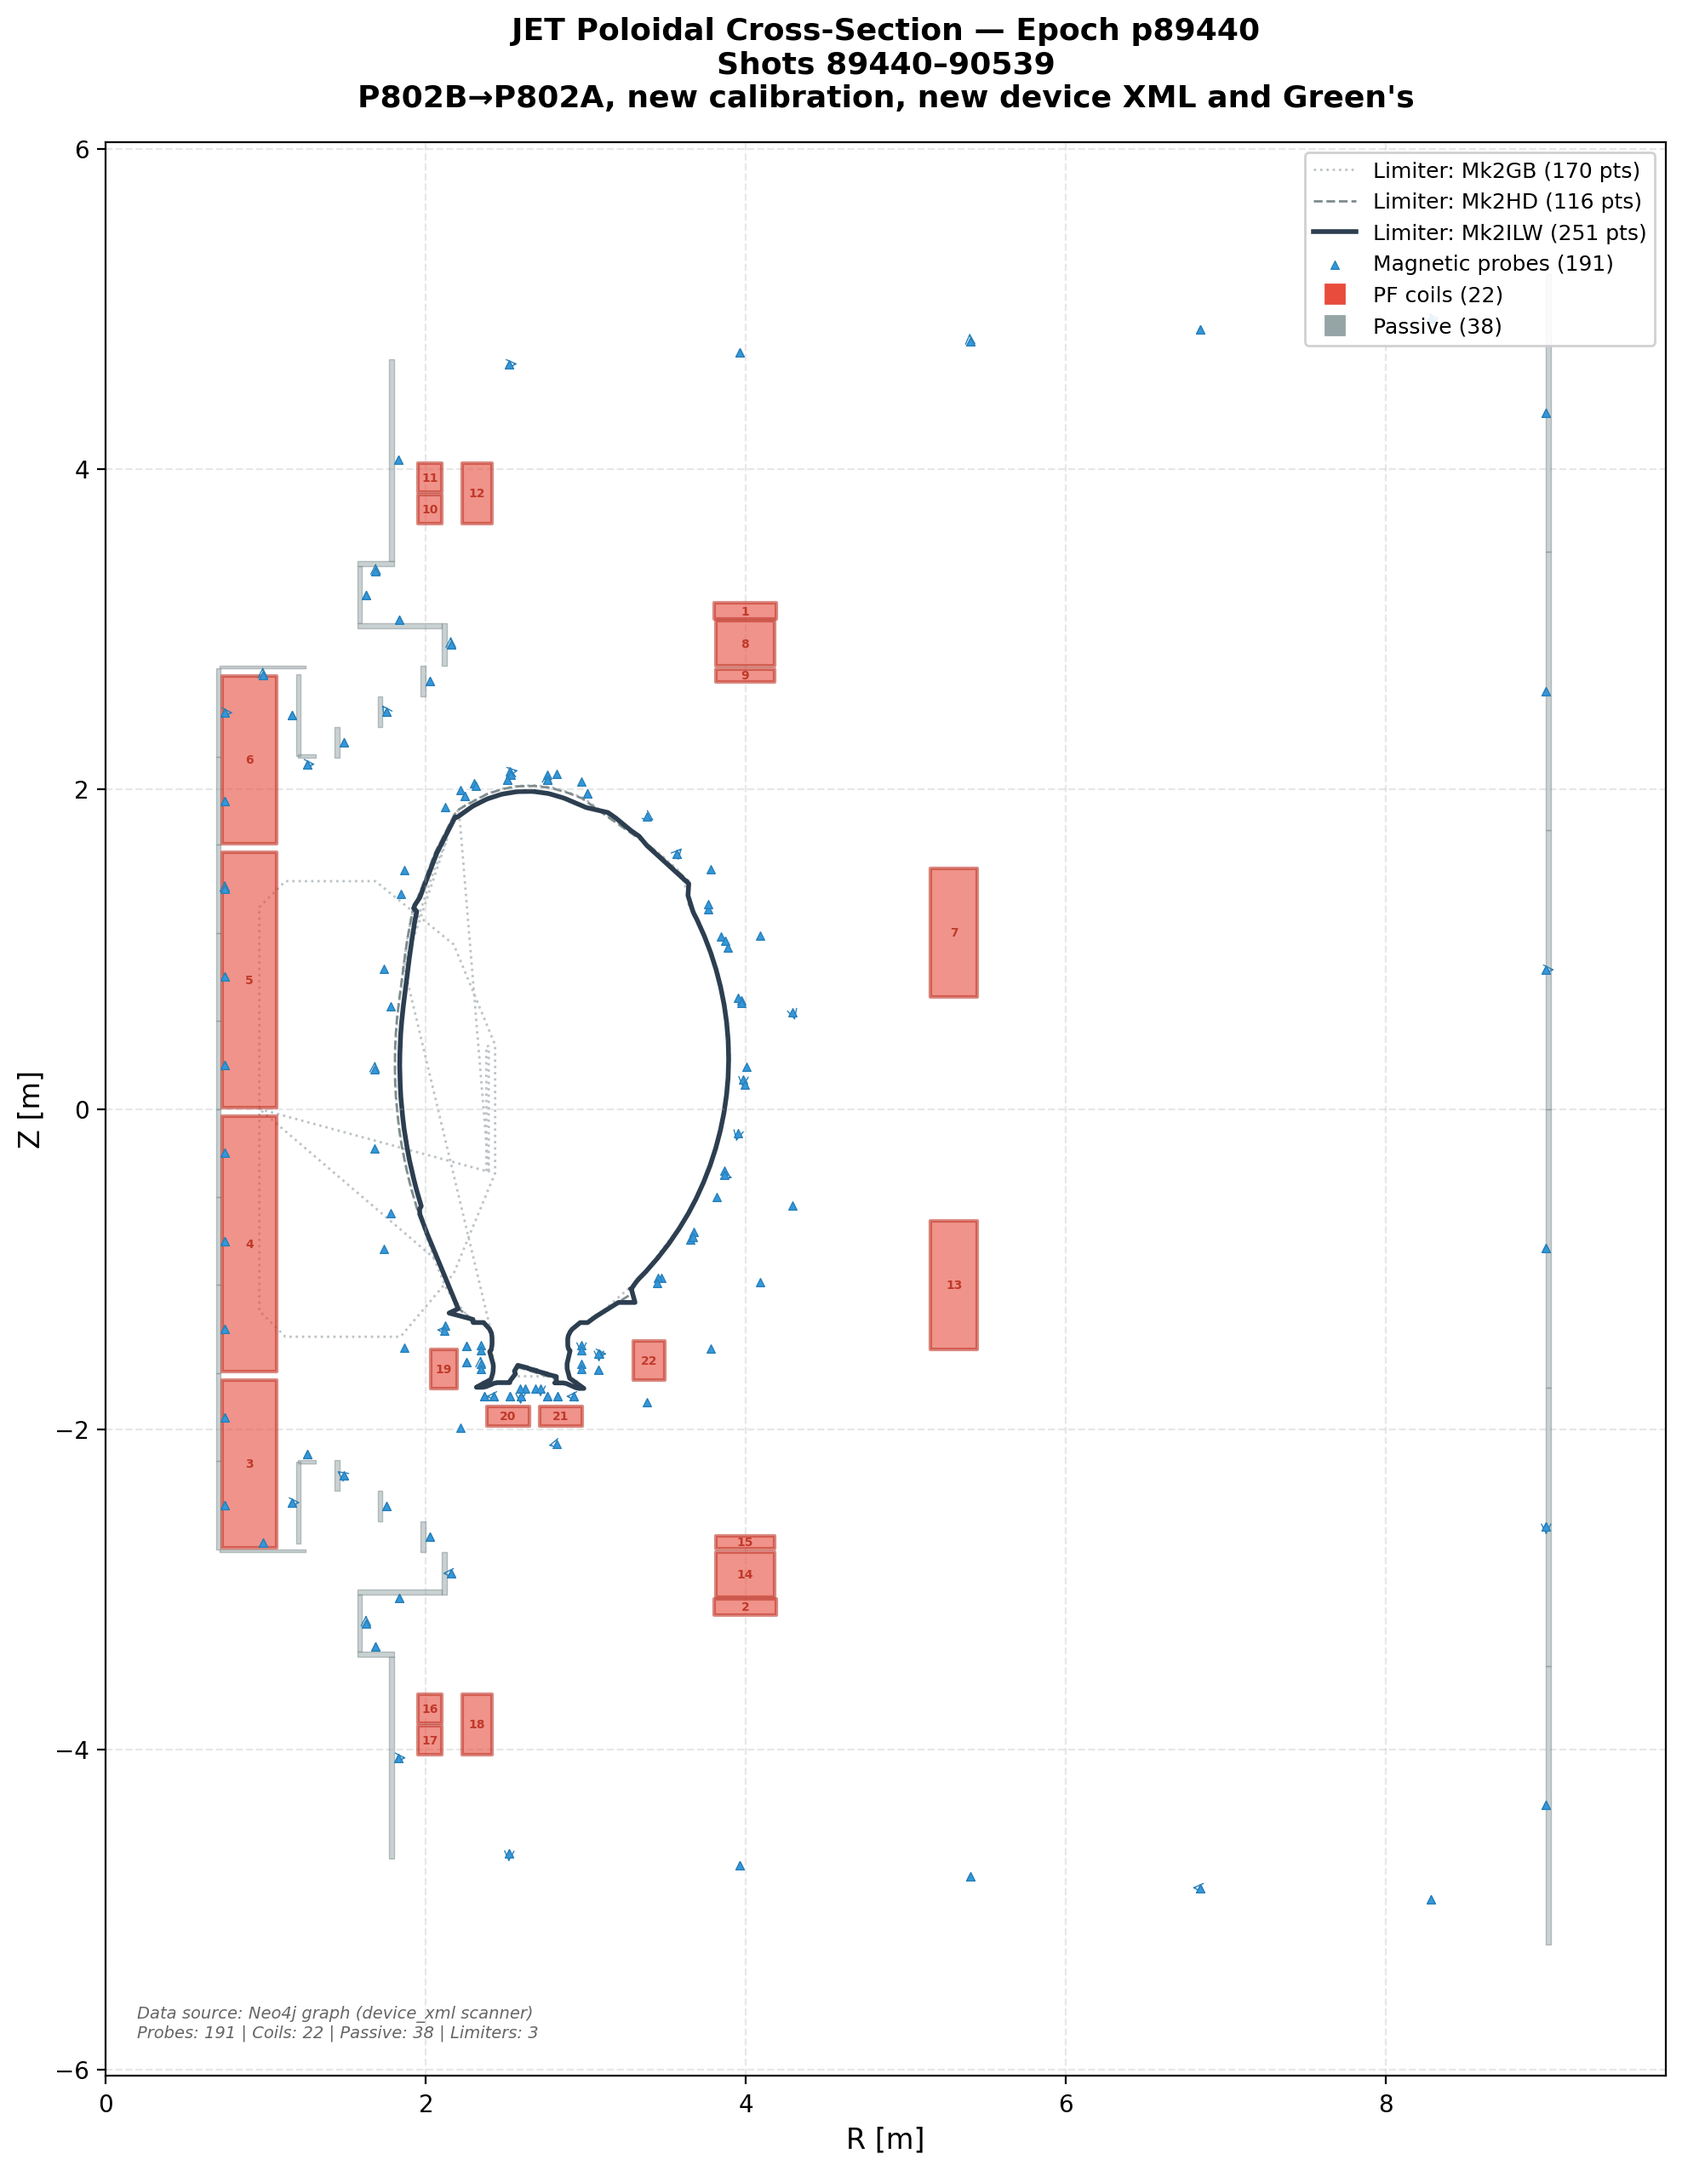
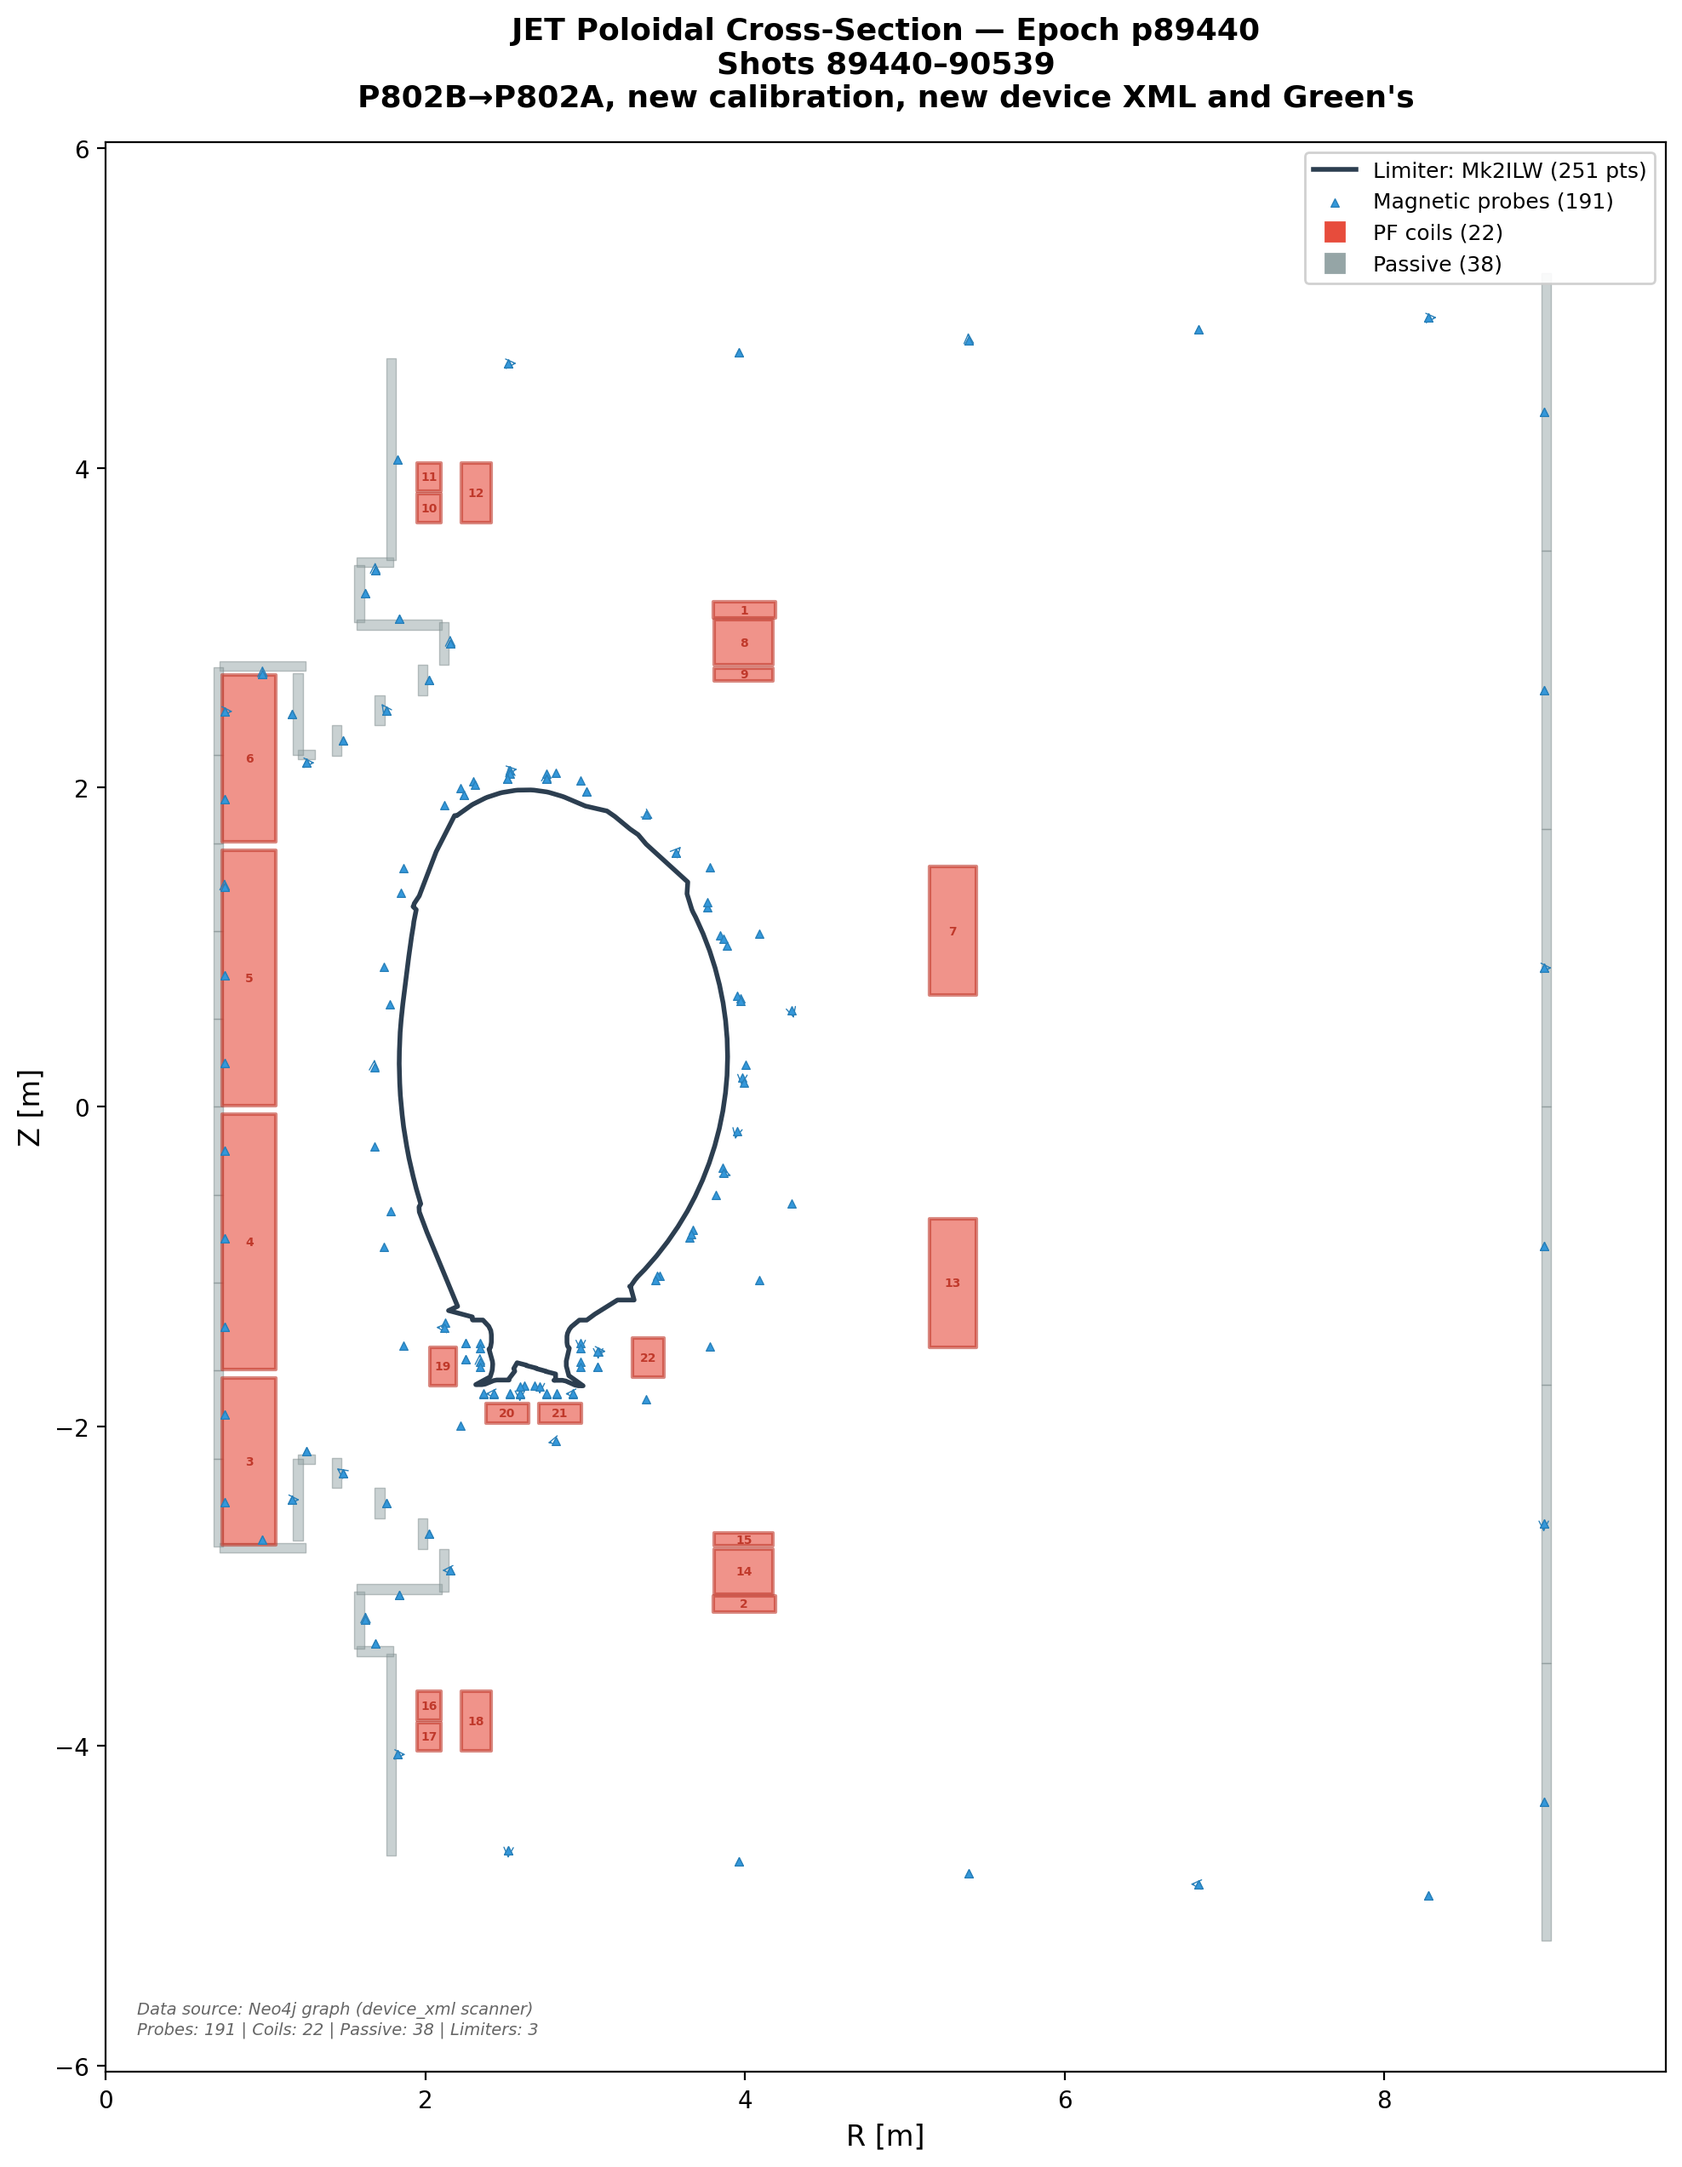
fix: remove grid and fix thin passive structure rendering in poloidal plot
- Remove grid lines
- Show only active limiter (Mk2ILW) for the selected epoch
- Enforce minimum visual dimension (0.06m) on passive structure
  patches so they render as visible rectangles instead of hair-thin
  gray lines

diff --git a/scripts/plot_jet_poloidal.py b/scripts/plot_jet_poloidal.py
@@ -117,19 +117,19 @@ def plot_poloidal(data: dict, epoch: str = "p89440") -> None:
 
     fig, ax = plt.subplots(1, 1, figsize=(10, 14))
 
-    # --- Limiter contours ---
-    colors = {"Mk2ILW": "#2c3e50", "Mk2HD": "#7f8c8d", "Mk2GB": "#bdc3c7"}
+    # --- Limiter contour (active for this epoch) ---
     for lim in data["limiters"]:
         name = lim["path"].split(":")[-1]
+        if name != "Mk2ILW":
+            continue
         r = np.array(lim["r"], dtype=float)
         z = np.array(lim["z"], dtype=float)
-        style = {"Mk2ILW": "-", "Mk2HD": "--", "Mk2GB": ":"}
         ax.plot(
             r,
             z,
-            style.get(name, "-"),
-            color=colors.get(name, "#555"),
-            linewidth=2 if name == "Mk2ILW" else 1,
+            "-",
+            color="#2c3e50",
+            linewidth=2,
             label=f"Limiter: {name} ({lim['n_points']} pts)",
             zorder=1,
         )
@@ -195,14 +195,15 @@ def plot_poloidal(data: dict, epoch: str = "p89440") -> None:
             )
 
     # --- Passive structures (rectangles) ---
+    min_dim = 0.06  # minimum visual size in metres
     passive_patches = []
     for ps in data["passives"]:
         r, z = ps["r"], ps["z"]
-        dr, dz = ps.get("dr", 0.05), ps.get("dz", 0.05)
+        dr, dz = ps.get("dr", min_dim), ps.get("dz", min_dim)
         if r is None or z is None:
             continue
-        dr = dr or 0.05
-        dz = dz or 0.05
+        dr = max(dr or min_dim, min_dim)
+        dz = max(dz or min_dim, min_dim)
         rect = mpatches.Rectangle(
             (r - dr / 2, z - dz / 2),
             dr,
@@ -286,7 +287,6 @@ def plot_poloidal(data: dict, epoch: str = "p89440") -> None:
     ax.set_xlabel("R [m]", fontsize=12)
     ax.set_ylabel("Z [m]", fontsize=12)
     ax.set_aspect("equal")
-    ax.grid(True, alpha=0.3, linestyle="--")
     ax.legend(loc="upper right", fontsize=9, framealpha=0.9)
 
     # Auto-scale to data extent with padding
